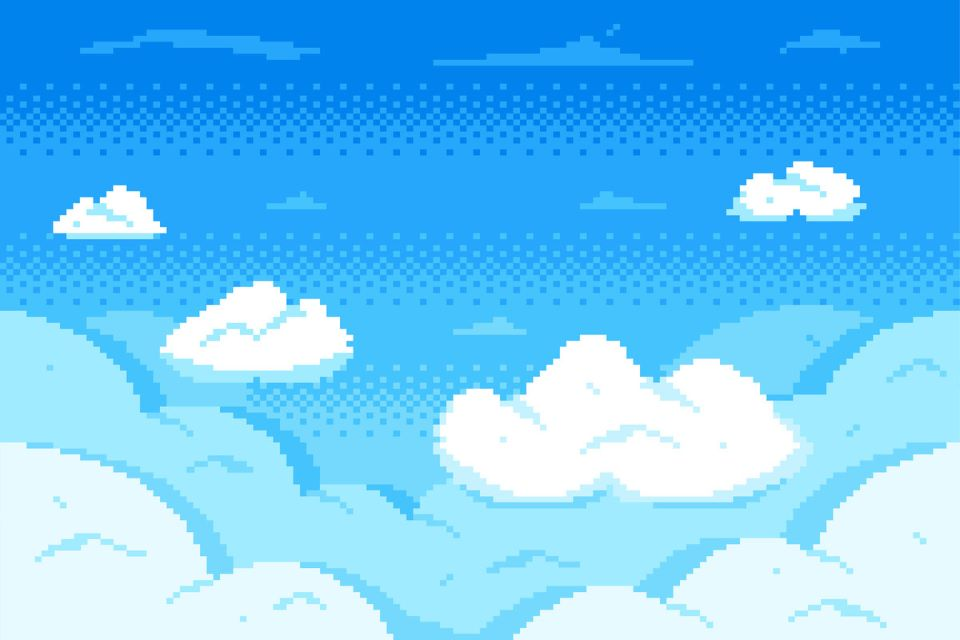
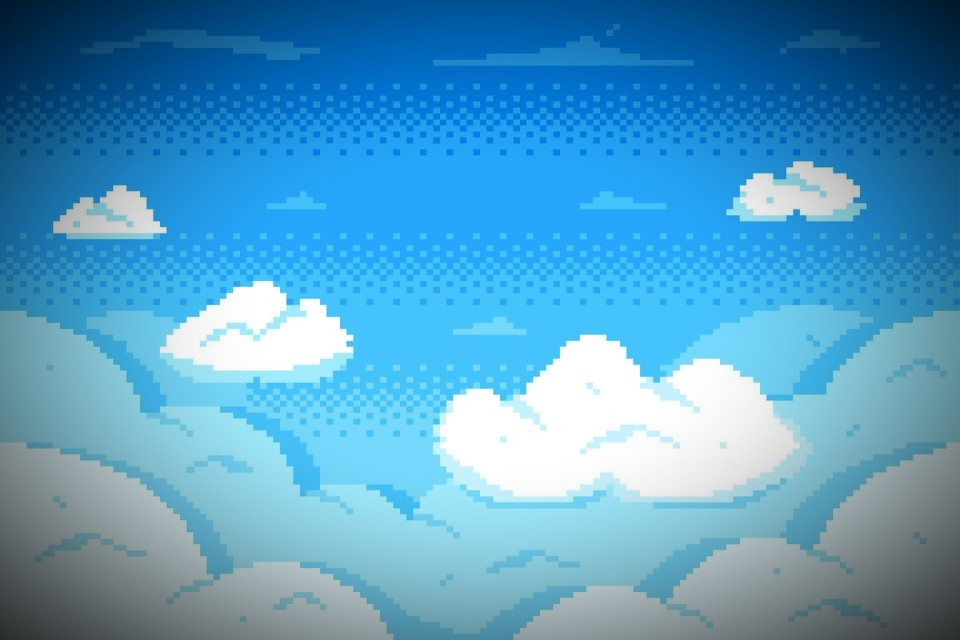
Restyling

diff --git a/src/game/utils/file_system/Paths.kt b/src/game/utils/file_system/Paths.kt
@@ -65,7 +65,7 @@ object Paths {
     val backgroundImage: String get() = "$menuImagesPath/background.jpg"
 
     @JvmStatic
-    val mainMenuWallpaper: String get() = "$menuImagesPath/welcome.png"
+    val mainMenuWallpaper: String get() = "$menuImagesPath/welcome.jpg"
 
     @JvmStatic
     val deathWallpaper: String get() = "$menuImagesPath/death.jpg"

diff --git a/src/game/presentation/ui/panels/models/BoxMenuPanel.java b/src/game/presentation/ui/panels/models/BoxMenuPanel.java
@@ -24,7 +24,7 @@ public abstract class BoxMenuPanel extends PagePanel {
             JBombFrame frame,
             String title
     ) {
-        this(cardLayout, parent, frame, title, Paths.getBackgroundImage(), true, new BombermanPanelYellow());
+        this(cardLayout, parent, frame, title, Paths.getMainMenuWallpaper(), true, new BombermanPanelYellow());
     }
 
 
